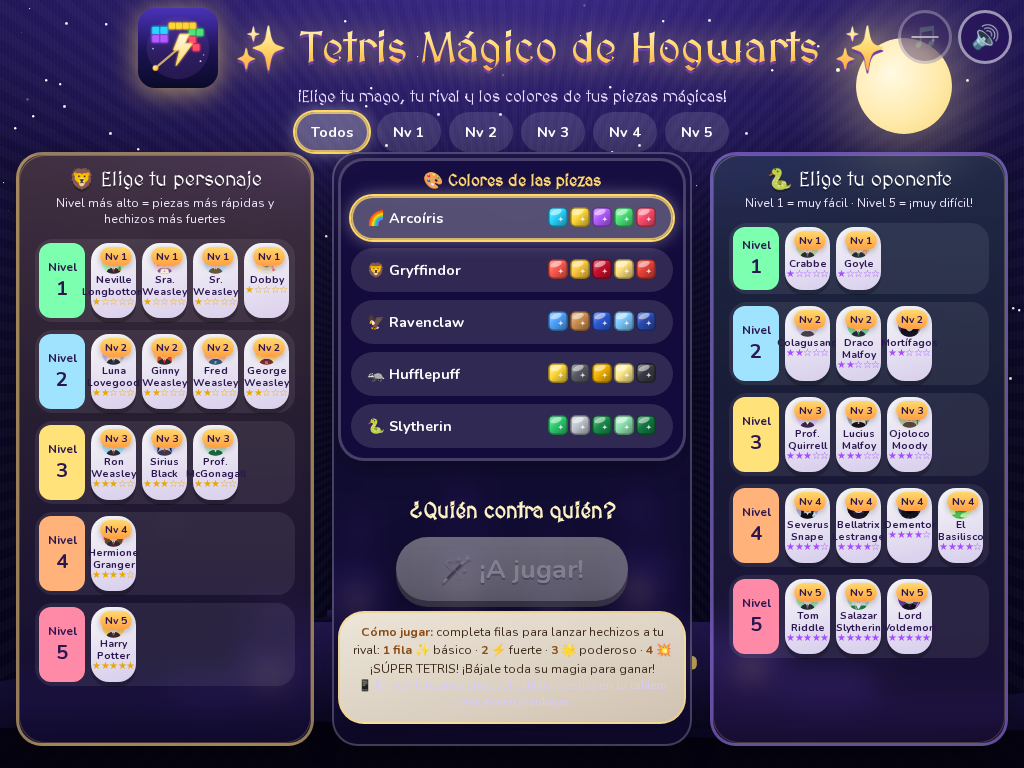
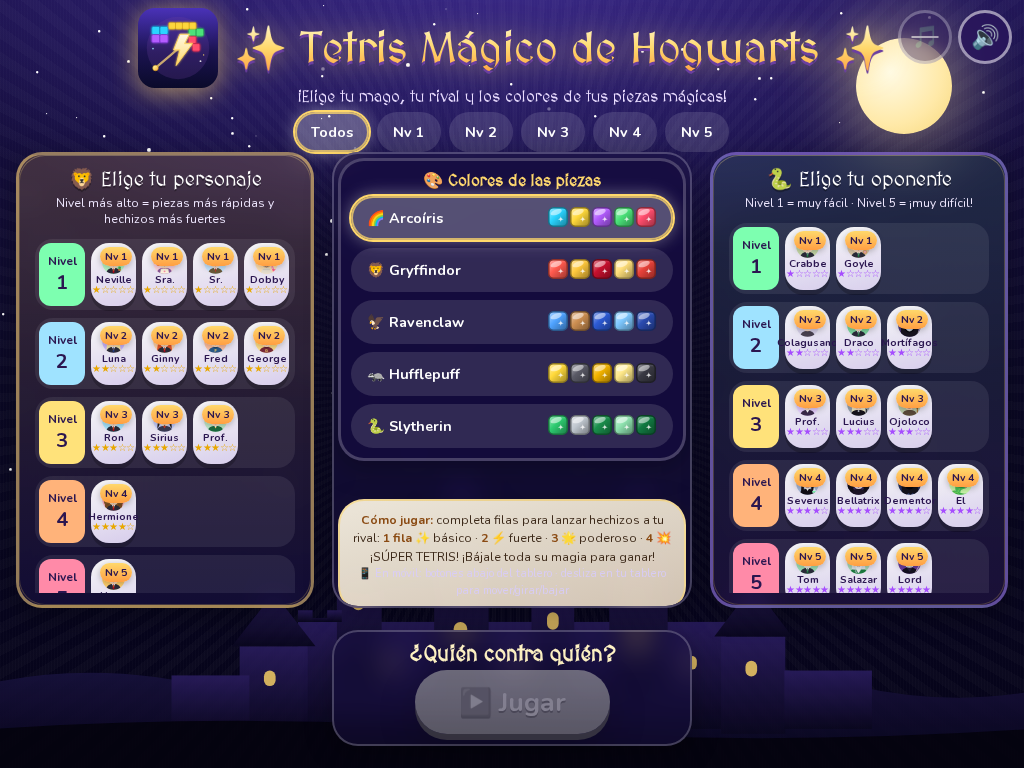
Pulir móvil: selección reordenada y tablero más alto
Logo sin título solapado, personajes antes que colores, pie Jugar fijo,
muestras redondas 44px, duelo con botón 🏠 único, rival HP limpio y
fitBoards que prioriza altura del tablero (375×667 ~17px/celda).

Changed region(s): [[0.0, 0.3438, 1.0, 0.9688]]

diff --git a/theme.css b/theme.css
@@ -1095,6 +1095,10 @@ body[data-layout="phone-p"] .boardStage > .mini.flank canvas {
 }
 body[data-layout="phone-p"] .spellText,
 body[data-layout="phone-p"] .spellText.t4 { max-width: 92vw; width: auto; white-space: normal; text-align: center; }
+body[data-layout="phone-p"] .sideWrap.player .sideRow {
+  flex: 1 1 0;
+  min-height: 0;
+}
 body[data-layout="phone-p"] .sideWrap.player .boardCol {
   flex: 1 1 auto;
   width: auto;
@@ -1104,7 +1108,7 @@ body[data-layout="phone-p"] .sideWrap.player .boardCol {
   max-height: 100%;
   display: flex;
   justify-content: center;
-  align-items: center;
+  align-items: stretch;
   overflow: visible;
 }
 body[data-layout="phone-p"] .sideWrap.player .boardFrame {
@@ -1408,6 +1412,18 @@ body[data-layout="touch-l"] .pad-actions {
 }
 .side { position: relative; }
 
+/* Pie de selección (Jugar) — columna central en desktop/tablet */
+body:not([data-layout="phone-p"]):not([data-layout="phone-l"]) .sel-foot {
+  grid-column: 2;
+  width: 100%;
+  max-width: 380px;
+  justify-self: center;
+  text-align: center;
+  padding: 10px 14px;
+  margin-top: 4px;
+  border-radius: var(--radius-lg);
+}
+
 /* ===== Móvil minimalista (solo phone-p / phone-l) ===== */
 body[data-layout="phone-p"] #selScreen .subtitle,
 body[data-layout="phone-l"] #selScreen .subtitle,
@@ -1424,60 +1440,192 @@ body[data-layout="phone-l"] #selWrap .help,
 body[data-layout="phone-p"] #selDesc,
 body[data-layout="phone-l"] #selDesc,
 body[data-layout="phone-p"] .card .stars,
-body[data-layout="phone-l"] .card .stars {
+body[data-layout="phone-l"] .card .stars,
+body[data-layout="phone-p"] h1.title,
+body[data-layout="phone-l"] h1.title {
   display: none !important;
 }
-body[data-layout="phone-p"] h1.title,
-body[data-layout="phone-l"] h1.title { font-size: clamp(1.15rem, 5vw, 1.45rem); }
+body[data-layout="phone-p"] #selScreen.show,
+body[data-layout="phone-l"] #selScreen.show {
+  display: flex;
+  flex-direction: column;
+  align-items: stretch;
+  overflow-y: auto;
+  -webkit-overflow-scrolling: touch;
+  height: 100%;
+  max-height: 100dvh;
+  padding: 0 10px calc(4px + var(--safe-b));
+}
+body[data-layout="phone-p"] .titleRow,
+body[data-layout="phone-l"] .titleRow {
+  flex: 0 0 auto;
+  justify-content: flex-start;
+  margin: calc(6px + var(--safe-t)) 0 4px;
+  padding: 0 calc(96px + var(--safe-r)) 0 calc(4px + var(--safe-l));
+  min-height: 48px;
+}
 body[data-layout="phone-p"] .gameLogo,
-body[data-layout="phone-l"] .gameLogo { width: clamp(56px, 14vw, 72px); height: clamp(56px, 14vw, 72px); }
+body[data-layout="phone-l"] .gameLogo {
+  width: 48px;
+  height: 48px;
+}
+body[data-layout="phone-p"] #muteBtn,
+body[data-layout="phone-p"] #musicBtn,
+body[data-layout="phone-l"] #muteBtn,
+body[data-layout="phone-l"] #musicBtn {
+  width: 44px;
+  height: 44px;
+  font-size: 1.1rem;
+  top: calc(8px + var(--safe-t));
+}
+body[data-layout="phone-p"] #musicBtn,
+body[data-layout="phone-l"] #musicBtn { right: calc(56px + var(--safe-r)); }
+body[data-layout="phone-p"] #muteBtn,
+body[data-layout="phone-l"] #muteBtn { right: calc(8px + var(--safe-r)); }
+body[data-layout="phone-p"] #selTabs,
+body[data-layout="phone-l"] #selTabs {
+  flex: 0 0 auto;
+  margin-bottom: 6px;
+}
+body[data-layout="phone-p"] #selWrap,
+body[data-layout="phone-l"] #selWrap {
+  flex: 1 1 auto;
+  display: flex;
+  flex-direction: column;
+  min-height: 0;
+  gap: 8px;
+  padding: 0;
+}
+body[data-layout="phone-p"] #selWrap .side:not([hidden]),
+body[data-layout="phone-l"] #selWrap .side:not([hidden]) {
+  order: 1;
+  flex: 1 1 auto;
+  min-height: 160px;
+  max-height: min(48vh, 420px);
+  padding: 8px;
+}
+body[data-layout="phone-p"] #selWrap .center,
+body[data-layout="phone-l"] #selWrap .center {
+  order: 2;
+  flex: 0 0 auto;
+  background: transparent;
+  border: none;
+  box-shadow: none;
+  padding: 0;
+}
+body[data-layout="phone-p"] #selWrap .sel-foot,
+body[data-layout="phone-l"] #selWrap .sel-foot {
+  order: 3;
+  flex: 0 0 auto;
+  position: sticky;
+  bottom: 0;
+  z-index: 30;
+  width: 100%;
+  margin-top: auto;
+  padding: 10px 12px calc(10px + var(--safe-b));
+  background: linear-gradient(0deg, rgba(10, 8, 36, 0.98) 55%, rgba(10, 8, 36, 0.75) 85%, transparent);
+  border: none;
+  box-shadow: none;
+  backdrop-filter: blur(8px);
+}
+body[data-layout="phone-p"] #heroCards,
+body[data-layout="phone-p"] #villainCards,
+body[data-layout="phone-l"] #heroCards,
+body[data-layout="phone-l"] #villainCards {
+  display: grid !important;
+  grid-template-columns: repeat(2, minmax(0, 1fr));
+  gap: 10px;
+  align-content: start;
+}
+body[data-layout="phone-p"] .lvRow,
+body[data-layout="phone-l"] .lvRow {
+  display: contents;
+}
+body[data-layout="phone-p"] .lvLbl,
+body[data-layout="phone-l"] .lvLbl { display: none !important; }
+body[data-layout="phone-p"] .lvCards,
+body[data-layout="phone-l"] .lvCards {
+  display: contents;
+}
 body[data-layout="phone-p"] #heroCards .card,
 body[data-layout="phone-p"] #villainCards .card,
 body[data-layout="phone-l"] #heroCards .card,
 body[data-layout="phone-l"] #villainCards .card {
-  padding: 10px 6px 8px;
-  min-height: 52px;
+  padding: 12px 8px 10px;
+  min-height: 118px;
+  width: 100%;
 }
 body[data-layout="phone-p"] #heroCards .card svg,
 body[data-layout="phone-p"] #villainCards .card svg,
 body[data-layout="phone-l"] #heroCards .card svg,
 body[data-layout="phone-l"] #villainCards .card svg {
-  width: min(76px, 20vw, 78%) !important;
+  width: min(88px, 34vw, 92%) !important;
 }
 body[data-layout="phone-p"] .card .nm,
-body[data-layout="phone-l"] .card .nm { font-size: 0.68rem; }
+body[data-layout="phone-l"] .card .nm {
+  font-size: clamp(0.72rem, 3.2vw, 0.85rem);
+  white-space: nowrap;
+  overflow: hidden;
+  text-overflow: ellipsis;
+  width: 100%;
+}
 body[data-layout="phone-p"] #selWrap .center .box,
 body[data-layout="phone-l"] #selWrap .center .box {
   background: transparent;
   border: none;
+  padding: 4px 0 8px;
+}
+body[data-layout="phone-p"] #themes,
+body[data-layout="phone-l"] #themes {
+  display: flex;
+  flex-direction: row;
+  flex-wrap: nowrap;
+  justify-content: center;
+  align-items: center;
+  gap: 10px;
+  width: 100%;
   padding: 4px 0;
 }
 body[data-layout="phone-p"] #themes .theme span,
-body[data-layout="phone-l"] #themes .theme span { display: none; }
+body[data-layout="phone-l"] #themes .theme span { display: none !important; }
 body[data-layout="phone-p"] #themes .theme,
 body[data-layout="phone-l"] #themes .theme {
-  padding: 4px;
-  min-width: 48px;
-  min-height: 36px;
+  flex: 0 0 44px;
+  width: 44px;
+  height: 44px;
+  min-width: 44px;
+  min-height: 44px;
+  padding: 3px;
+  border-radius: 50%;
+  display: inline-flex;
+  align-items: center;
+  justify-content: center;
+}
+body[data-layout="phone-p"] #themes .theme.sel,
+body[data-layout="phone-l"] #themes .theme.sel {
+  box-shadow: 0 0 0 3px var(--gold), 0 0 16px rgba(255, 216, 107, 0.65);
+  transform: scale(1.06);
 }
 body[data-layout="phone-p"] #themes .theme canvas,
 body[data-layout="phone-l"] #themes .theme canvas {
-  display: block;
-  width: 44px !important;
-  height: 12px !important;
-  margin: 0 auto;
+  width: 34px !important;
+  height: 34px !important;
+  border-radius: 50%;
+  margin: 0;
+  pointer-events: none;
 }
 body[data-layout="phone-p"] #playBtn,
 body[data-layout="phone-l"] #playBtn {
-  font-size: clamp(1.15rem, 4.8vw, 1.45rem);
-  padding: 16px 28px;
-  width: min(100%, 320px);
-  margin: 8px auto 4px;
+  font-size: clamp(1.2rem, 5vw, 1.5rem);
+  padding: 16px 24px;
+  width: 100%;
+  max-width: 360px;
+  margin: 4px auto 0;
 }
 body[data-layout="phone-p"] #vsText,
 body[data-layout="phone-l"] #vsText {
-  font-size: 1.1rem;
-  margin: 4px 0;
+  font-size: 1rem;
+  margin: 0 0 4px;
 }
 
 body[data-layout="phone-p"] #topBar .ttl,
@@ -1486,13 +1634,22 @@ body[data-layout="phone-p"] #pauseBtn,
 body[data-layout="phone-l"] #pauseBtn { display: none !important; }
 body[data-layout="phone-p"] #backBtn,
 body[data-layout="phone-l"] #backBtn {
-  font-size: 0;
-  padding: 10px 12px;
+  font-size: 1.2rem;
+  width: 48px;
+  height: 48px;
   min-width: 48px;
   min-height: 48px;
+  padding: 0;
+  border-radius: 50%;
+  display: inline-flex;
+  align-items: center;
+  justify-content: center;
+  flex: 0 0 48px;
 }
-body[data-layout="phone-p"] #backBtn::after,
-body[data-layout="phone-l"] #backBtn::after { content: "🏠"; font-size: 1.25rem; }
+body[data-layout="phone-p"] #backBtn .back-lbl,
+body[data-layout="phone-l"] #backBtn .back-lbl { display: none; }
+body[data-layout="phone-p"] #backBtn .back-ico,
+body[data-layout="phone-l"] #backBtn .back-ico { line-height: 1; }
 body[data-layout="phone-p"] #gameMenuBtn,
 body[data-layout="phone-l"] #gameMenuBtn {
   display: inline-flex !important;
@@ -1554,29 +1711,22 @@ body[data-layout="phone-l"] .sideWrap .panel .spellTip,
 body[data-layout="phone-l"] .sideWrap .panel .ghelp {
   display: none !important;
 }
-body[data-layout="phone-p"] .sideWrap.player .player-panel {
-  display: flex !important;
-  flex-direction: row;
-  align-items: center;
-  gap: 8px;
-  padding: 4px 8px !important;
+body[data-layout="phone-p"] .sideWrap.player .player-panel { display: none !important; }
+body[data-layout="phone-p"] .sideWrap.rival {
+  max-height: 52px;
 }
-body[data-layout="phone-p"] .sideWrap.player .player-panel .statsLine,
-body[data-layout="phone-p"] .sideWrap.player .player-panel .hpLabel,
-body[data-layout="phone-p"] .sideWrap.player .player-panel .stat:nth-child(1),
-body[data-layout="phone-p"] .sideWrap.player .player-panel .stat:nth-child(2) {
+body[data-layout="phone-p"] .sideWrap.rival .rival-panel .hpLabel,
+body[data-layout="phone-p"] .sideWrap.rival .rival-panel .hpTxt,
+body[data-layout="phone-p"] .sideWrap.rival .rival-panel #vTag,
+body[data-layout="phone-p"] .sideWrap.rival .rival-panel .tag {
   display: none !important;
 }
-body[data-layout="phone-p"] .sideWrap.player .player-panel .stat {
-  flex: 0 0 auto;
-  max-width: none;
-  font-size: 0.7rem;
-  padding: 0 4px;
-  background: transparent;
+body[data-layout="phone-p"] .sideWrap.rival .rival-panel .hpBar { height: 10px; }
+body[data-layout="phone-p"] .sideWrap.rival .rival-mini {
+  flex: 0 0 46px;
+  width: 46px;
+  min-width: 46px;
 }
-body[data-layout="phone-p"] .sideWrap.player .player-panel .stat span { display: none; }
-body[data-layout="phone-p"] .sideWrap.player .player-panel .hpWrap { flex: 1 1 auto; }
-body[data-layout="phone-p"] .sideWrap.rival .rival-panel .hpLabel { display: none; }
 body[data-layout="phone-p"] .vsCol { display: none !important; }
 body[data-layout="phone-p"] .boardStage > .mini.flank span { font-size: 0; }
 body[data-layout="phone-p"] .boardStage > .mini.flank span::after { font-size: 0.55rem; content: "▶"; }

diff --git a/index.html b/index.html
@@ -79,8 +79,7 @@
         <h3>🎨 Colores de las piezas</h3>
         <div class="themeChips themes" id="themes"></div>
       </div>
-      <p id="selDesc"></p><p class="vs" id="vsText">¿Quién contra quién?</p>
-      <button type="button" class="btn big glow play-magic" id="playBtn" disabled>🪄 ¡A jugar!</button>
+      <p id="selDesc"></p>
       <div class="box help parchment">
         <b>Cómo jugar:</b> completa filas para lanzar hechizos a tu rival: <b>1 fila</b> ✨ básico · <b>2</b> ⚡ fuerte · <b>3</b> 🌟 poderoso · <b>4</b> 💥 ¡SÚPER TETRIS! ¡Bájale toda su magia para ganar!<br>
         <span class="ghelp kbd-only"><kbd>⬅</kbd><kbd>➡</kbd> mover · <kbd>⬆</kbd> girar · <kbd>⬇</kbd> bajar<br>
@@ -92,6 +91,10 @@
       <h2>🐍 Elige tu oponente</h2><div class="lvTip">Nivel 1 = muy fácil · Nivel 5 = ¡muy difícil!</div>
       <div class="cards" id="villainCards"></div>
     </div>
+    <div class="sel-foot glass">
+      <p class="vs" id="vsText">¿Quién contra quién?</p>
+      <button type="button" class="btn big glow play-magic" id="playBtn" disabled>▶ Jugar</button>
+    </div>
   </div>
   <div style="height:10px"></div>
 </section>
@@ -99,7 +102,7 @@
 <!-- JUEGO -->
 <section id="gameScreen" class="screen">
   <div id="topBar">
-    <button class="btn small purple" id="backBtn">🏠 Personajes</button>
+    <button class="btn small purple" id="backBtn" type="button"><span class="back-ico" aria-hidden="true">🏠</span><span class="back-lbl">Personajes</span></button>
     <div class="ttl">✨ Duelo de Tetris Mágico ✨</div>
     <button class="btn small green" id="pauseBtn">⏸ Pausa</button>
     <button type="button" class="btn small mobile-menu-btn" id="gameMenuBtn" aria-label="Menú" hidden>⚙</button>
@@ -238,7 +241,7 @@ function updateSpellBtn(){
   btn.disabled=!n;});
 }
 function updateMobileHud(){const el=document.getElementById('mobileHudScore');
- if(el?.hidden||!Game.P)return;el.textContent=`⭐ ${Game.P.score} · 📏 ${Game.P.lines}`;}
+ if(el?.hidden||!Game.P)return;el.textContent=`💛 ${Game.P.hp} · ⭐ ${Game.P.score}`;}
 function syncSelTabs(){const narrow=innerWidth<720,tab=document.querySelector('#selTabs button.active')?.dataset.tab||'hero';
  document.querySelectorAll('.sel-tab-panel').forEach(p=>{p.hidden=narrow&&p.dataset.panel!==tab;});}
 document.getElementById('selTabs').addEventListener('click',e=>{const b=e.target.closest('[data-tab]');if(!b)return;
@@ -580,7 +583,8 @@ const sel={hero:null,villain:null,theme:'arcoiris'};
 function makeCards(list,boxId,key){const box=document.getElementById(boxId);
  for(let lv=1;lv<=5;lv++){const row=document.createElement('div');row.className='lvRow lv'+lv;row.innerHTML=`<div class="lvLbl">Nivel<b>${lv}</b></div><div class="lvCards"></div>`;box.appendChild(row);}
  list.slice().sort((a,b)=>a.lv-b.lv).forEach(ch=>{const b=document.createElement('button');b.className='card';b.dataset.id=ch.id;b.dataset.lv=ch.lv;b.title=ch.n+' — '+ch.d+' (Nivel '+ch.lv+')';
-  b.innerHTML=`<span class="lvBadge">Nv ${ch.lv}</span>`+AV[ch.id]()+`<div class="nm">${ch.n}</div><div class="stars">${STARS(ch.lv)}</div><div class="ds">${ch.d}</div>`;
+  const nmShort=ch.n.includes(' ')?ch.n.split(' ')[0]:ch.n;
+  b.innerHTML=`<span class="lvBadge">Nv ${ch.lv}</span>`+AV[ch.id]()+`<div class="nm" title="${ch.n}">${nmShort}</div><div class="stars">${STARS(ch.lv)}</div><div class="ds">${ch.d}</div>`;
   b.onclick=()=>{sel[key]=ch.id;box.querySelectorAll('.card').forEach(c=>c.classList.toggle('sel',c===b));SFX.select();
    const [x,y]=centerOf(b);burst(x,y,24,key==='hero'?['#ffd86b','#fff','#ff9f43']:['#7dffb0','#c9b6ff','#fff']);updateSel();
    document.getElementById('selDesc').textContent=(key==='hero'?'🦁 ':'🐍 ')+ch.n+': '+ch.d+' · Nivel '+ch.lv;};
@@ -685,11 +689,11 @@ function fitBoards(){const mode=document.body.dataset.layout||layoutMode();const
  if(mode==='phone-p'){
   const short=vh<720;
   const inGame=document.getElementById('gameScreen')?.classList.contains('show');
-  cellMin=short?12:14;cellMax=38;
+  cellMin=short?14:15;cellMax=40;
   if(inGame&&Game.P?.cv){
-   const hudEl=document.querySelector('.sideWrap.player .player-panel');
+   const rivalBar=document.querySelector('.sideWrap.rival');
    const stage=document.querySelector('.boardStage');
-   const hudBottom=hudEl?.getBoundingClientRect().bottom??tb+80;
+   const hudBottom=rivalBar?.getBoundingClientRect().bottom??tb+48;
    const dockTop2=dockOn?dock.getBoundingClientRect().top:vh;
    const altoLibre=Math.max(0,dockTop2-hudBottom-FRAME_PAD);
    const stageW=stage?.getBoundingClientRect().width||(vw-24);
